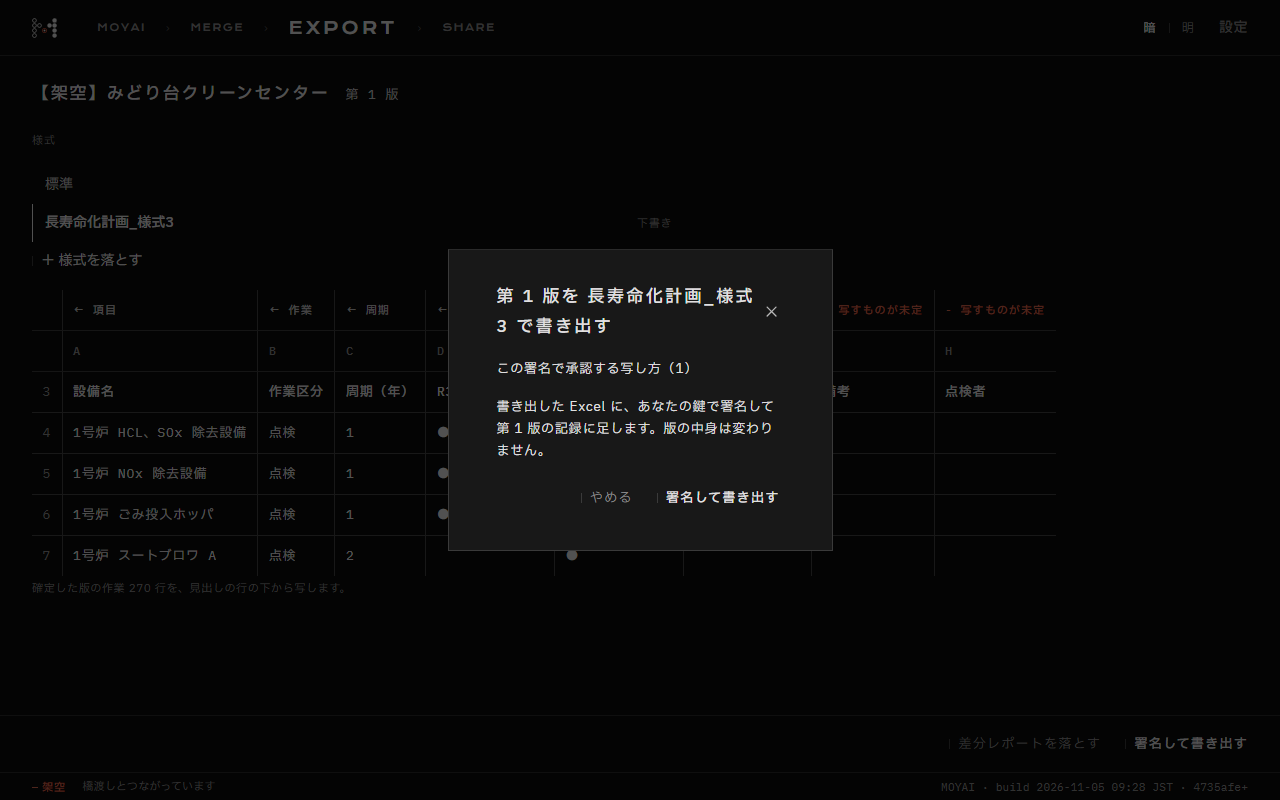
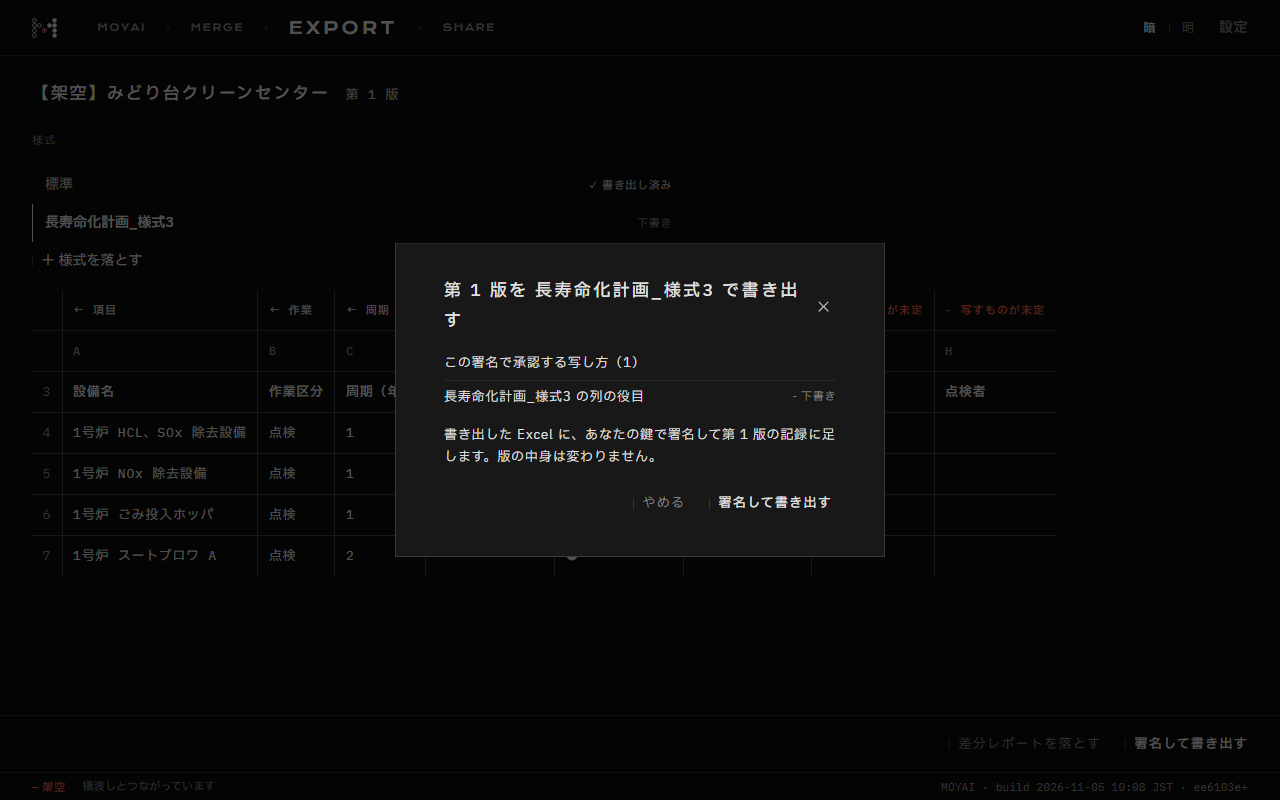
3C の直し：信じる鍵の書き出しを先に落とす、様式の版の照らし、Excel の置き換え（Architect）、ダイアログと様式の選び（Wire）
- export_file_read は信じる鍵の書き出しを先に選び、渡したファイルの署名者を返す。画面はその 1 つについて鍵の警告を出す
- 同じ名前の Excel の中身が違えば置き換える。template.version が file・columns と食い違う署名は数えない
- 試験：偽の書き出しがあっても信じる鍵のものが落ちる、差戻された版は書き出せない
- ダイアログ 560px と写し方の行、表の下の説明を外す、標準にも「✓ 書き出し済み」

diff --git a/src/bridge/human.ts b/src/bridge/human.ts
@@ -3,7 +3,7 @@
 // どれも MCP のツールにしない（src/shared/tools.ts に無い）。答えは JSON。断るときは { ok: false, reason }。
 // 鍵・トークン・計画の中身をログに出さない。
 import { spawn } from "node:child_process";
-import { mkdir, readFile, writeFile } from "node:fs/promises";
+import { mkdir, readFile, rename, writeFile } from "node:fs/promises";
 import { tmpdir } from "node:os";
 import { join } from "node:path";
 import { z } from "zod";
@@ -780,7 +780,12 @@ export class HumanService {
         await mkdir(join(dir, "signatures"), { recursive: true });
         // Excel のバイト列を先に置き、署名をあとに置く（署名があるのに Excel が無い、を作らない。Architect の縛り 3）
         const xlsx = join(dir, "exports", exportExcelName(p.version, excelHash));
-        if (!existsSync(xlsx)) await writeFile(xlsx, excel);
+        // 同じ名前があっても、中身が違えば一時のファイルから置き換える（先に置かれた別の中身で、毎回 fileChanged にしない。Architect の小 1）
+        if (!existsSync(xlsx) || sha256Hex(await readFile(xlsx)) !== excelHash) {
+          const tmp = `${xlsx}.tmp-${process.pid}`;
+          await writeFile(tmp, excel);
+          await rename(tmp, xlsx);
+        }
         try {
           await writeFile(join(dir, "signatures", exportSignatureName(p.version, keyIdOf(signer.signer.pair.pub), excelHash)), `${JSON.stringify(file, null, 1)}\n`, { encoding: "utf8", flag: "wx" });
         } catch (e) {
@@ -796,9 +801,13 @@ export class HumanService {
         const pv = await readPlanVersion(root, p.planId, p.version);
         if (!pv.ok) return no(pv.reason);
         const v = (await readHistory(root, p.planId)).versions.find((x) => x.version === p.version);
-        // その様式の版で署名した書き出しのうち、いちばん新しいもの。Excel を読み、署名の SHA-256 と照らしてから渡す
-        const x = (v?.exports ?? []).filter((e) => e.template.name === p.name && e.template.version === p.templateVersion).sort((a, b) => (a.at < b.at ? 1 : -1))[0];
-        if (!x) return no("exportUnknown");
+        // その様式の版で署名した書き出しのうち、信じる鍵（自分か確認済み）のものを先に、その中で時刻の新しいもの。無ければほかの鍵のもの。
+        // 時刻は署名した人が書くので、未確認の鍵が先の時刻を書いても、信じる鍵の書き出しを差し置かない（Architect の 3C の直し）
+        const cands = (v?.exports ?? []).filter((e) => e.template.name === p.name && e.template.version === p.templateVersion).map((e) => ({ e, trust: trustOf(sd, e, now) }));
+        const newest = (xs: typeof cands) => [...xs].sort((a, b) => (a.e.at < b.e.at ? 1 : -1))[0];
+        const pick = newest(cands.filter((c) => countsForApproval(c.trust))) ?? newest(cands);
+        if (!pick) return no("exportUnknown");
+        const x = pick.e;
         let bytes: Buffer;
         try {
           bytes = await readFile(join(planDir(root, p.planId), "exports", exportExcelName(p.version, x.excel)));
@@ -806,7 +815,9 @@ export class HumanService {
           return no("fileMissing");
         }
         if (sha256Hex(bytes) !== x.excel) return no("fileChanged");
-        return { ok: true, version: p.version, name: p.name, base64: bytes.toString("base64") };
+        // 渡したファイルの署名者（画面は、この 1 つについて鍵の警告を出す）
+        const signer = { by: x.by, key: x.key, pub: x.pub, trust: pick.trust, fingerprint: fingerprint(x.pub), previous: pick.trust === "changed" ? previousOf(sd, x.pub) : null };
+        return { ok: true, version: p.version, name: p.name, base64: bytes.toString("base64"), signer };
       }
       case "person_key_create": {
         const p = parsePayload("person_key_create", call.payload);

diff --git a/src/app/pages/Export.tsx b/src/app/pages/Export.tsx
@@ -158,7 +158,14 @@ export function Export() {
   const req = status?.request ?? null;
   const pendingWho = latest && !approved && req && req.kind === "approve" && !req.done ? (req.received?.by ?? req.to) : null;
   // 選んだ様式の、この版の書き出しの署名の鍵が未確認なら警告する（止めない。Architect の縛り 7）
-  const exportSigners = selected && info?.exports ? info.exports.filter((x) => x.template.version === selected.version && (x.trust === "unconfirmed" || x.trust === "changed")).map((x) => ({ ...x, role: "export" })) : [];
+  // 落とすのは、ブリッジと同じ選び方の 1 つ（信じる鍵の書き出しを先に、その中で時刻の新しいもの）。その署名者の鍵が未確認なら、その 1 つについて警告する
+  const served = (() => {
+    if (!selected || !info?.exports) return null;
+    const xs = info.exports.filter((x) => x.template.name === selected.name && x.template.version === selected.version);
+    const newest = (ys: typeof xs) => [...ys].sort((a, b) => (a.at < b.at ? 1 : -1))[0];
+    return newest(xs.filter((x) => x.trust === "own" || x.trust === "confirmed")) ?? newest(xs) ?? null;
+  })();
+  const exportSigners = served && (served.trust === "unconfirmed" || served.trust === "changed") ? [{ ...served, role: "export" }] : [];
 
   return (
     <div className="moyai-share-page" data-testid="export-page">
@@ -174,7 +181,7 @@ export function Export() {
           {latest?.plan.facility.fictional && <FictionMark />}
         </div>
         <Stack gap="md">
-          {latest && <TemplateExport plan={latest.plan} templates={templates} selected={selected} onSelect={setSelected} onDrop={onDrop} onRoles={onRoles} />}
+          {latest && <TemplateExport plan={latest.plan} templates={templates} selected={selected} onSelect={setSelected} onDrop={onDrop} onRoles={onRoles} standardExported={!broken} />}
           {error && (
             <Alert color="gray" data-testid="export-error">
               {error}
@@ -225,9 +232,19 @@ export function Export() {
         </Group>
       </Group>
       {latest && selected && (
-        <Modal opened={signing} onClose={() => setSigning(false)} title={T.template.dialogTitle(latest.version, selected.name)} centered data-testid="export-sign-dialog">
+        <Modal opened={signing} onClose={() => setSigning(false)} title={T.template.dialogTitle(latest.version, selected.name)} centered size={560} data-testid="export-sign-dialog">
           <Stack gap="sm">
-            {!selected.approval && <Text size="sm">{T.template.approveLine(1)}</Text>}
+            {!selected.approval && (
+              <div>
+                <Text size="sm">{T.template.approveLine(1)}</Text>
+                <Group justify="space-between" wrap="nowrap" mt={6} pt={6} style={{ borderTop: "1px solid var(--line)" }} data-testid="export-sign-approve-row">
+                  <Text size="sm">{T.template.approveRow(selected.name)}</Text>
+                  <Text size="xs" c="var(--text-3)">
+                    - {T.template.draft}
+                  </Text>
+                </Group>
+              </div>
+            )}
             <Text size="sm">{T.template.dialogResult(latest.version)}</Text>
             <Group justify="flex-end" gap="sm">
               <Button variant="default" onClick={() => setSigning(false)}>

diff --git a/src/app/components/TemplateExport.tsx b/src/app/components/TemplateExport.tsx
@@ -87,6 +87,7 @@ export function TemplateExport({
   onSelect,
   onDrop,
   onRoles,
+  standardExported,
 }: {
   plan: Plan;
   templates: readonly SharedTemplate[];
@@ -94,6 +95,8 @@ export function TemplateExport({
   onSelect: (t: SharedTemplate | null) => void;
   onDrop: (f: File) => Promise<string | null>;
   onRoles: (t: SharedTemplate, columns: TemplateColumns) => void;
+  /** 標準の書き出しがあるか（確定の署名で書き出している） */
+  standardExported: boolean;
 }) {
   const [error, setError] = useState<string | null>(null);
   const rows = useMemo(() => rowsFor(plan), [plan]);
@@ -122,7 +125,18 @@ export function TemplateExport({
         {T.label}
       </Text>
       <div className="moyai-template-choices" data-testid="template-choices">
-        {row("standard", selected === null, () => onSelect(null), T.standard, null, "template-standard")}
+        {row(
+          "standard",
+          selected === null,
+          () => onSelect(null),
+          T.standard,
+          standardExported ? (
+            <Text span size="xs" c="var(--text-2)" data-testid="template-exported">
+              {T.exported}
+            </Text>
+          ) : null,
+          "template-standard",
+        )}
         {templates.map((t) =>
           row(
             templateKey(t),
@@ -130,6 +144,11 @@ export function TemplateExport({
             () => onSelect(t),
             t.name,
             <>
+              {t.exported && (
+                <Text span size="xs" c="var(--text-2)" mr="sm" data-testid="template-exported">
+                  {T.exported}
+                </Text>
+              )}
               {t.approval ? (
                 <Text span size="xs" c="var(--text-2)">
                   {T.approved(t.approval.in, t.approval.by)}
@@ -137,11 +156,6 @@ export function TemplateExport({
               ) : (
                 <Text span size="xs" c="var(--text-3)">
                   {T.draft}
-                </Text>
-              )}
-              {t.exported && (
-                <Text span size="xs" c="var(--text-2)" ml="sm" data-testid="template-exported">
-                  {T.exported}
                 </Text>
               )}
             </>,
@@ -225,9 +239,6 @@ export function TemplateExport({
               ))}
             </Table.Tbody>
           </Table>
-          <Text size="xs" c="dimmed" mt={4} data-testid="template-count">
-            {T.count(rows.length)}
-          </Text>
         </div>
       )}
     </Stack>

diff --git a/src/plan/exports.ts b/src/plan/exports.ts
@@ -95,6 +95,11 @@ export function exportExcelName(version: number, excel: string): string {
   return `${String(version).padStart(6, "0")}-${excel.slice(0, 16)}.xlsx`;
 }
 
+/** 様式の版：様式のファイルの SHA-256 と写し方の中身のハッシュから（保管先の版と、書き出しの署名の template.version） */
+export function templateVersion(fileHash: string, columns: string): string {
+  return sha256Hex(`${fileHash}\u0000${columns}`);
+}
+
 /** 写し方（列の役目）の中身のハッシュ */
 export function columnsHash(columns: unknown): string {
   return sha256Hex(canonicalize(columns));
@@ -122,7 +127,8 @@ export function checkExports(files: readonly { name: string; text: string }[], p
       continue;
     }
     const s = f.statement;
-    if (s.planId !== planId || s.version !== version || s.contentHash !== hash || s.key !== m[2] || s.excel.slice(0, 16) !== m[3]) {
+    // template.version は file と columns から作るもの。食い違う署名は形の外れ（version の文字だけで写し方を承認させない。Architect の小 2）
+    if (s.planId !== planId || s.version !== version || s.contentHash !== hash || s.key !== m[2] || s.excel.slice(0, 16) !== m[3] || s.template.version !== templateVersion(s.template.file, s.template.columns)) {
       bad++;
       continue;
     }

diff --git a/src/app/text/index.ts b/src/app/text/index.ts
@@ -266,6 +266,7 @@ export const TEXT = {
       sign: "署名して書き出す",
       dialogTitle: (n: number, name: string) => `第 ${n} 版を ${name} で書き出す`,
       approveLine: (k: number) => `この署名で承認する写し方（${k}）`,
+      approveRow: (name: string) => `${name} の列の役目`,
       dialogResult: (n: number) => `書き出した Excel に、あなたの鍵で署名して第 ${n} 版の記録に足します。版の中身は変わりません。`,
       cancel: "やめる",
       signed: (n: number, name: string) => `第 ${n} 版を ${name} で書き出し、署名しました`,
@@ -276,7 +277,6 @@ export const TEXT = {
       pendingSuffix: "_承認待ち",
       role: { item: "← 項目", work: "← 作業", cycle: "← 周期", year: (fy: number) => `← ${fy} 年度の印`, none: "- 写すものが未定" },
       roleOf: (col: string) => `${col} 列に写すもの`,
-      count: (n: number) => `確定した版の作業 ${n} 行を、見出しの行の下から写します。`,
       fileName: (base: string, name: string, n: number, suffix = "") => `${base}_${name}_第${n}版${suffix}.xlsx`,
       noSheet: "様式にシートがありません。",
       noHeader: "様式の見出しの行（2 つ以上の欄に字がある行）が見つかりません。",

diff --git a/src/bridge/templates.ts b/src/bridge/templates.ts
@@ -7,7 +7,8 @@ import { createHash } from "node:crypto";
 import { existsSync, readdirSync } from "node:fs";
 import { mkdir, readFile, rename, writeFile } from "node:fs/promises";
 import { join, relative, sep } from "node:path";
-import { columnsHash, type ExportInfo } from "../plan/exports";
+import { columnsHash, templateVersion, type ExportInfo } from "../plan/exports";
+export { templateVersion };
 import { PLAN_ID, readHistory, type PlanHistory } from "../plan/store";
 import { isTemplateColumns, type TemplateColumns } from "../plan/template";
 import { safeSegment } from "./readings";
@@ -19,11 +20,6 @@ const COLUMNS = "columns.json";
 export const TEMPLATE_MAX_BYTES = 8 * 1024 * 1024;
 
 const sha = (b: string | Uint8Array) => createHash("sha256").update(b).digest("hex");
-
-/** 様式の版：様式のファイルの SHA-256 と写し方の中身のハッシュから */
-export function templateVersion(fileHash: string, columns: string): string {
-  return sha(`${fileHash}\u0000${columns}`);
-}
 
 async function writeAtomic(path: string, data: string | Uint8Array): Promise<void> {
   const tmp = `${path}.tmp-${process.pid}`;
